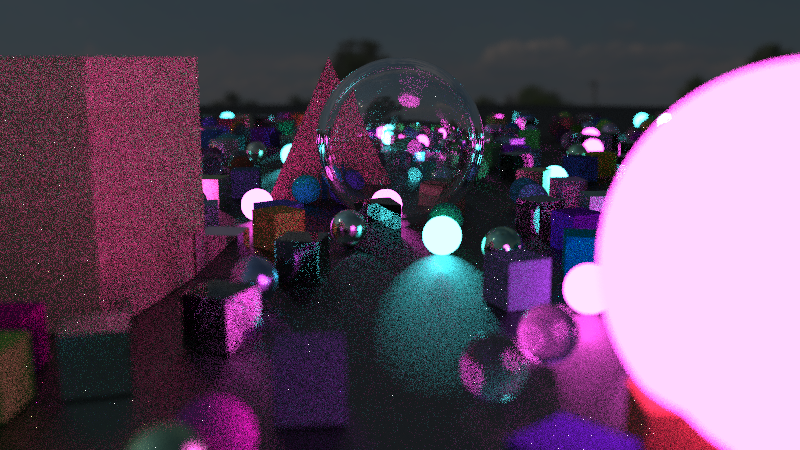
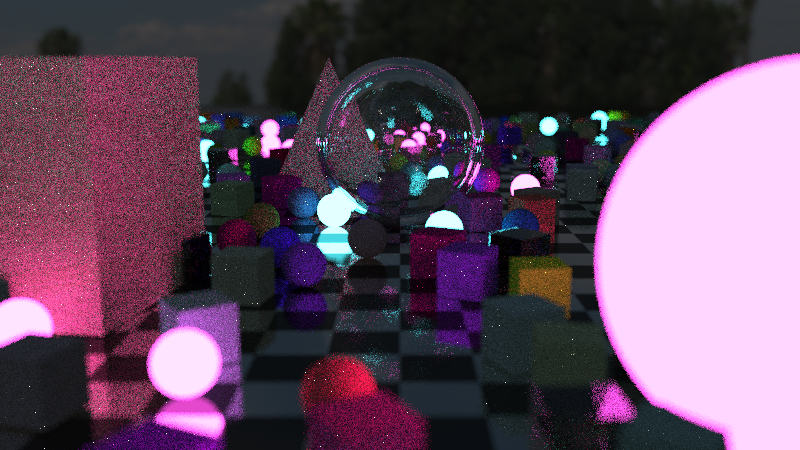
checker_material

diff --git a/material.hpp b/material.hpp
@@ -32,13 +32,11 @@ public:
 	//constructor for solid color albedo
 	lambertian(const color& albedo)
 		: tex(make_shared<solid_color>(albedo))
-	{
-	}
+	{}
 	//constructor for texture albedo
 	lambertian(shared_ptr<texture>tex)
 		: tex(tex)
-	{
-	}
+	{}
 
 	bool scatter(const ray& r_in, const hit_record& rec, color& attenuation, ray& scattered) const override {
 		auto scatter_direction = rec.normal + random_unit_vector();
@@ -64,25 +62,27 @@ private:
 //class for metal material with reflections
 class metal : public material {
 public:
-	metal(const color& albedo, double fuzz)
-		: albedo(albedo)
+	//constructor for checker texture
+	metal(shared_ptr<texture> a, double f)
+		: albedo(a)
+		, fuzz(f < 1 ? f : 1) //condition for fuzziness 
+	{}
+	//constructor for solid color albedo(user friendly)
+	metal(const color& a, double f)
+		: albedo(make_shared<solid_color>(a))
 		, fuzz(fuzz < 1 ? fuzz : 1) //condition for fuzziness 
-	{
-	}
+	{}
 
 	bool scatter(const ray& r_in, const hit_record& rec, color& attenuation, ray& scattered) const override {
-		vec3 reflected = reflect(r_in.direction(), rec.normal);
-		reflected = unit_vector(reflected) + (fuzz * random_unit_vector());
-
-		point3 origin_adjusted = rec.p + ray_epsilon * rec.normal;
-
-		scattered = ray(rec.p, reflected, r_in.time());
-		attenuation = albedo;
+		vec3 reflected = reflect(unit_vector(r_in.direction()), rec.normal);
+		//use .value(u, v, p) from texture instead of solid color
+		attenuation = albedo->value(rec.u, rec.v, rec.p);
+		scattered = ray(rec.p, reflected + fuzz * random_unit_vector());
 		return (dot(scattered.direction(), rec.normal) > 0);
 	}
 
 private:
-	color albedo;
+	shared_ptr<texture> albedo;
 	double fuzz;
 };
 

diff --git a/main.cpp b/main.cpp
@@ -30,8 +30,17 @@ int main() {
 	hittable_list world;
 
 	//0. BASE MATERIAL AND GROUND PLANE
-	auto material_ground = make_shared<metal>(color(0.2, 0.2, 0.2), 0.3);
-	world.add(make_shared<sphere>(point3(0.0, -1000.0, 0.0), 1000.0, material_ground));
+	//define ground color (dark grey and light grey)
+	auto dark_grey = color(0.1, 0.1, 0.1);
+	auto light_grey = color(0.9, 0.9, 0.9);
+	//checker texture for ground plane(0.5 scale determine size of squares)
+	auto checker = make_shared<checker_texture>(0.5, dark_grey, light_grey);
+	//combine texture with metal material
+	//fuzz 0.0 for perfect reflection
+	auto reflective_checker_mat = make_shared<metal>(checker, 0.02);
+
+	world.add(make_shared<sphere>(point3(0.0, -1000.0, 0.0), 1000.0, reflective_checker_mat));
+	
 
 	//1. GLASS SPHERE into scene
 	auto material_glass = make_shared<dielectric>(1.5);

diff --git a/triangle.hpp b/triangle.hpp
@@ -9,8 +9,7 @@ public:
 		, v1(b)
 		, v2(c)
 		, mat_ptr(m)
-	{
-	}
+	{}
 
 	virtual bool hit(const ray& r, interval ray_t, hit_record& rec) const {
 		//edges
